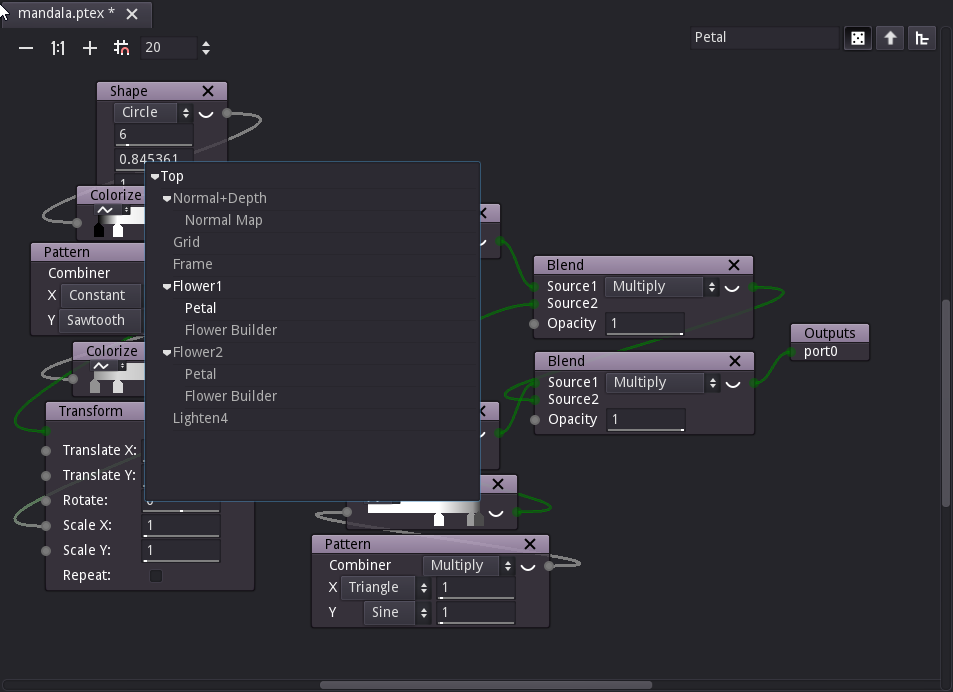
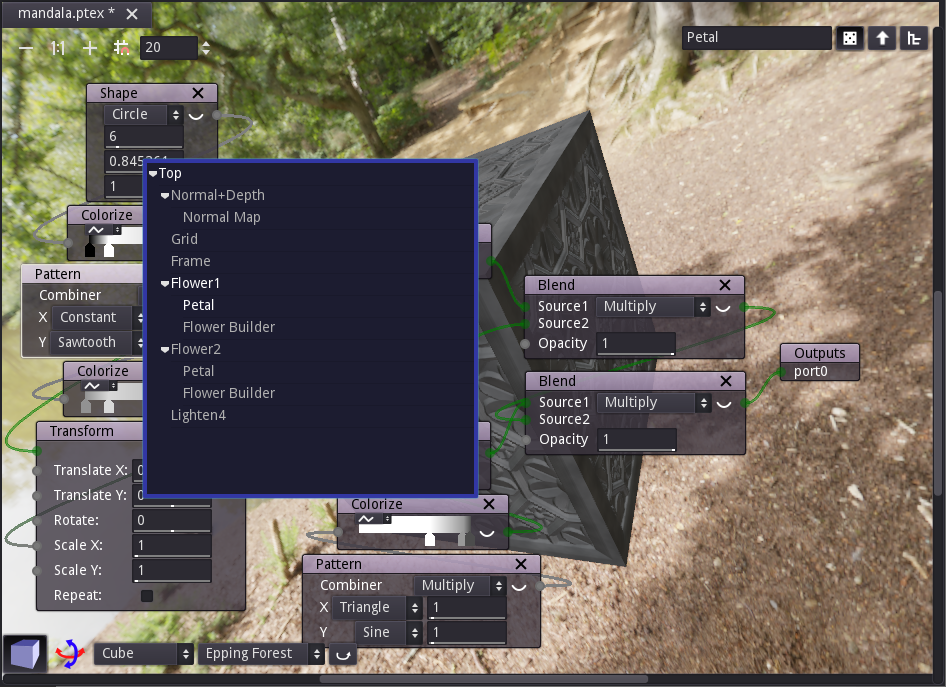
Updated documentation

diff --git a/addons/material_maker/doc/user_interface.rst b/addons/material_maker/doc/user_interface.rst
@@ -117,6 +117,13 @@ or group of nodes can easily be shared using this format.
 The contents of the clipboard can be pasted into a graph using the **Edit -> Paste**
 menu or the **Control+V** keyboard shortcut.
 
+Background 3D preview
+^^^^^^^^^^^^^^^^^^^^^
+
+The bottom left ("cube") button can be used to show a 3D preview in the background
+of the graph view. The blue/red arrows icon is used to rotate the object or the view,
+and other controls are similar to the 3D preview.
+
 Library pane
 ------------
 
@@ -135,18 +142,34 @@ give focus to the search field using the **Control+F** keyboard shortcut.
 Preview pane
 ------------
 
-The preview pane shows a 3D preview of the material, and a 2D preview of the first output
-of the selected node.
+The preview pane has tabs for a 2D preview and the 3D preview.
 
-.. image:: images/preview.png
+2D preview
+^^^^^^^^^^
+
+The 2D preview shows a tiled preview of the first output of the selected
+node. The animated dashed lines show the bounds of the texture, so it is
+easy to check that the texture wraps correctly.
+
+.. image:: images/preview_2d.png
+  :align: center
+
+Depending on the selected node, controls can be shown and they can me moved
+around to modify the associated parameters.
+
+3D preview
+^^^^^^^^^^
+
+The 3D preview pane shows a 3D preview of the current material.
+
+.. image:: images/preview_3d.png
   :align: center
 
 The left select button can be used to select a model for the 3D preview, and the second
 one provides different environments. The **R** button can be used to start and stop the
-object's rotation animation. Pressing the **O** button will show the 3D preview as
-background of the graph pane.
+object's rotation animation.
 
-In the 3d view, the object can be rotated about the yaw and the pitch axes (from the
+In the 3D view, the object can be rotated about the yaw and the pitch axes (from the
 camera's point of view) by holding the right mouse button and moving the mouse horizontally
 or vertically. The object can also be rotated about the roll axis by holding Shift and
 and the right mouse button and moving the mouse horizontally.
@@ -157,8 +180,6 @@ Rotating the object or the camera will automatically disable the object's rotate
 
 The mouse wheel can be used to move the camera along its longitudinal axis (hense zooming
 forward or backward).
-
-Clicking on the 2D preview will minimize or maximize it.
 
 Main menu
 ---------

diff --git a/addons/material_maker/doc/shader_nodes.rst b/addons/material_maker/doc/shader_nodes.rst
@@ -2,9 +2,16 @@ Shader nodes
 ------------
 
 Most nodes in Material Maker are shader nodes. Their outputs are not defined as images,
-but as shader programs that calculates the color of a pixel from its coordinates.
+but as shader programs that calculates
+
+* the color of a pixel from its coordinates for greyscale, color and RGBA outputs
+
+* the signed distance of a 2D point from its coordinates for SDF2D outputs
+
+* the signed distance of a 3D point from its coordinates for SDF3D outputs
+
 When shader nodes are connected, Material Maker will combine their shader programs.
-As a consequence, shader nodes are resolution independant.
+As a consequence, most shader nodes are resolution independant.
 
 Editing a shader node will show the **Node Editor** window.
 
@@ -35,6 +42,7 @@ the new parameter. On this line:
   are **float**, **size**, **enum**, **boolean**, **color** and **gradient**
 * on the right of the type selector, controls can be used to define a default value and
   constraints for the parameter
+* **float** parameters can be assigned a **control** variable in the 2D preview
 
 To use a parameter in your shader code it is necessary to prefix it with a dollar sign.
 So a **foo** parameter can be refered to by **$foo** or **$(foo)** in the shader code.
@@ -59,6 +67,12 @@ for **RGBA**. Inputs default values can use the **$uv** implicit variable. You m
 want to define interesting default inputs for your nodes, so it is possible
 to see their effect without connecting the inputs (the screenshot above is the
 Blend filter and has a vertical and an horizontal gradient as default inputs).
+
+The "Function" checkbox changes the way the code is generated for this input.
+When set to true, the input is generated as a function and can be used in the *Instance
+functions* section. If the parameter is false, the input code is inlined. is is not advised
+to set this parameter to true when not required, because generating functions can have
+an impact on performance.
 
 In shader code, inputs are used as functions that take a single **vec2** parameter. For
 example **$myinput(2.0*$uv+vec2(0.2, 0.3))** refers to **myinput**, scaled and translated.

diff --git a/addons/material_maker/doc/nodes_common.rst b/addons/material_maker/doc/nodes_common.rst
@@ -12,8 +12,26 @@ Outputs
 ^^^^^^^
 
 Nodes can have several outputs that represent the images they provide. Each node output can be
-connected to several node inputs. Each node output can be either **greyscale**, **color** or
-**RGBA**. Greyscale ports are drawn in grey, color in blue and RGBA in semi-transparent green.
+connected to several node inputs. Each node output (and input) can be:
+
+* a **greyscale image** (shown in grey) 
+
+* a **color image** (shown in blue)
+
+* an **RGBA image** (shown in semi-transparent green)
+
+* a **2D signed distance function** (shown in orange)
+
+* a **3D signed distance function** (shown in red)
+
+Greyscale, color and RGBA inputs and outputs can be connected to each other and will automatically be
+converted when required.
+
+2D signed distance functions have a specific preview that shows the associated signed distance
+field. They can be converted into greyscale images using the `sdShow node`.
+
+3D signed distance functions have a specific preview that shows the lit 3Dscene. They can be
+converted into a greyscale height map and a color normal map using the `Render node`.
 
 Next to the output, an (open or closed) eye icon indicates that a preview is available. Clicking
 on it will show the preview at the bottom of the node. When a node has several outputs, only
@@ -23,7 +41,7 @@ Inputs
 ^^^^^^
 
 Inputs are images the node will transform (if any). An input is always connected to at most
-an output. Inputs generally have a default image that is used when it is not connected.
+an output. Inputs generally have a default value that is used when it is not connected.
 
 Parameters
 ^^^^^^^^^^

diff --git a/addons/material_maker/doc/index.rst b/addons/material_maker/doc/index.rst
@@ -1,10 +1,5 @@
-.. Material Maker documentation master file, created by
-   sphinx-quickstart on Wed Aug 22 07:12:09 2018.
-   You can adapt this file completely to your liking, but it should at least
-   contain the root `toctree` directive.
-
-Welcome to Material Maker's documentation!
-==========================================
+Material Maker User Manual
+==========================
 
 .. toctree::
    :maxdepth: 2
